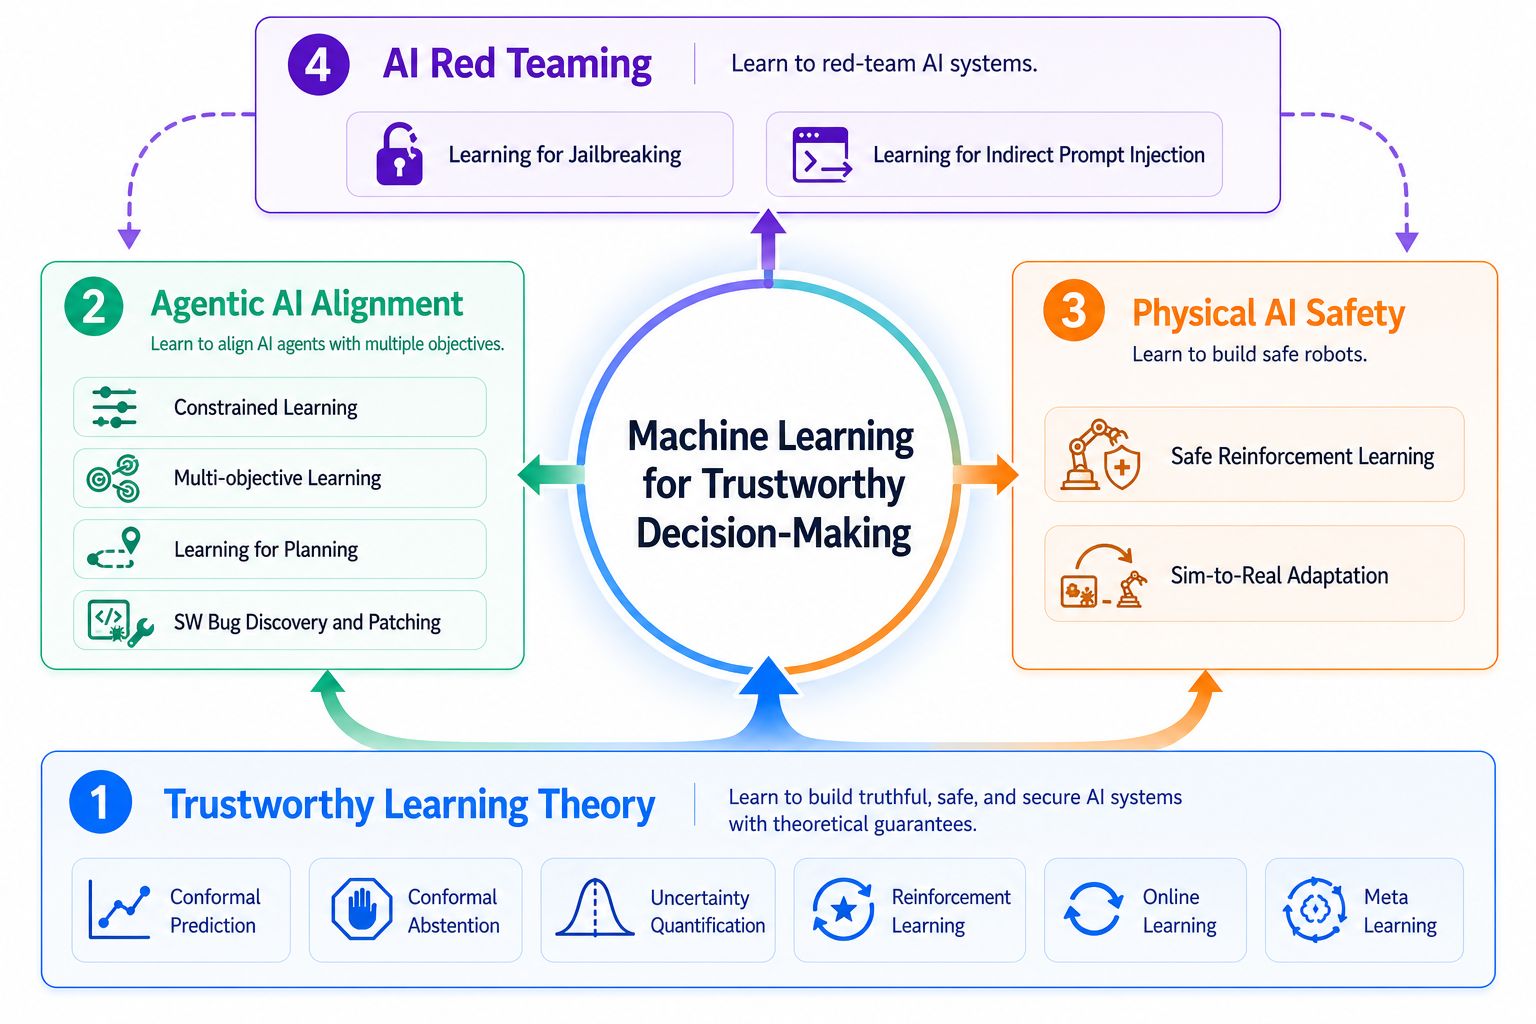
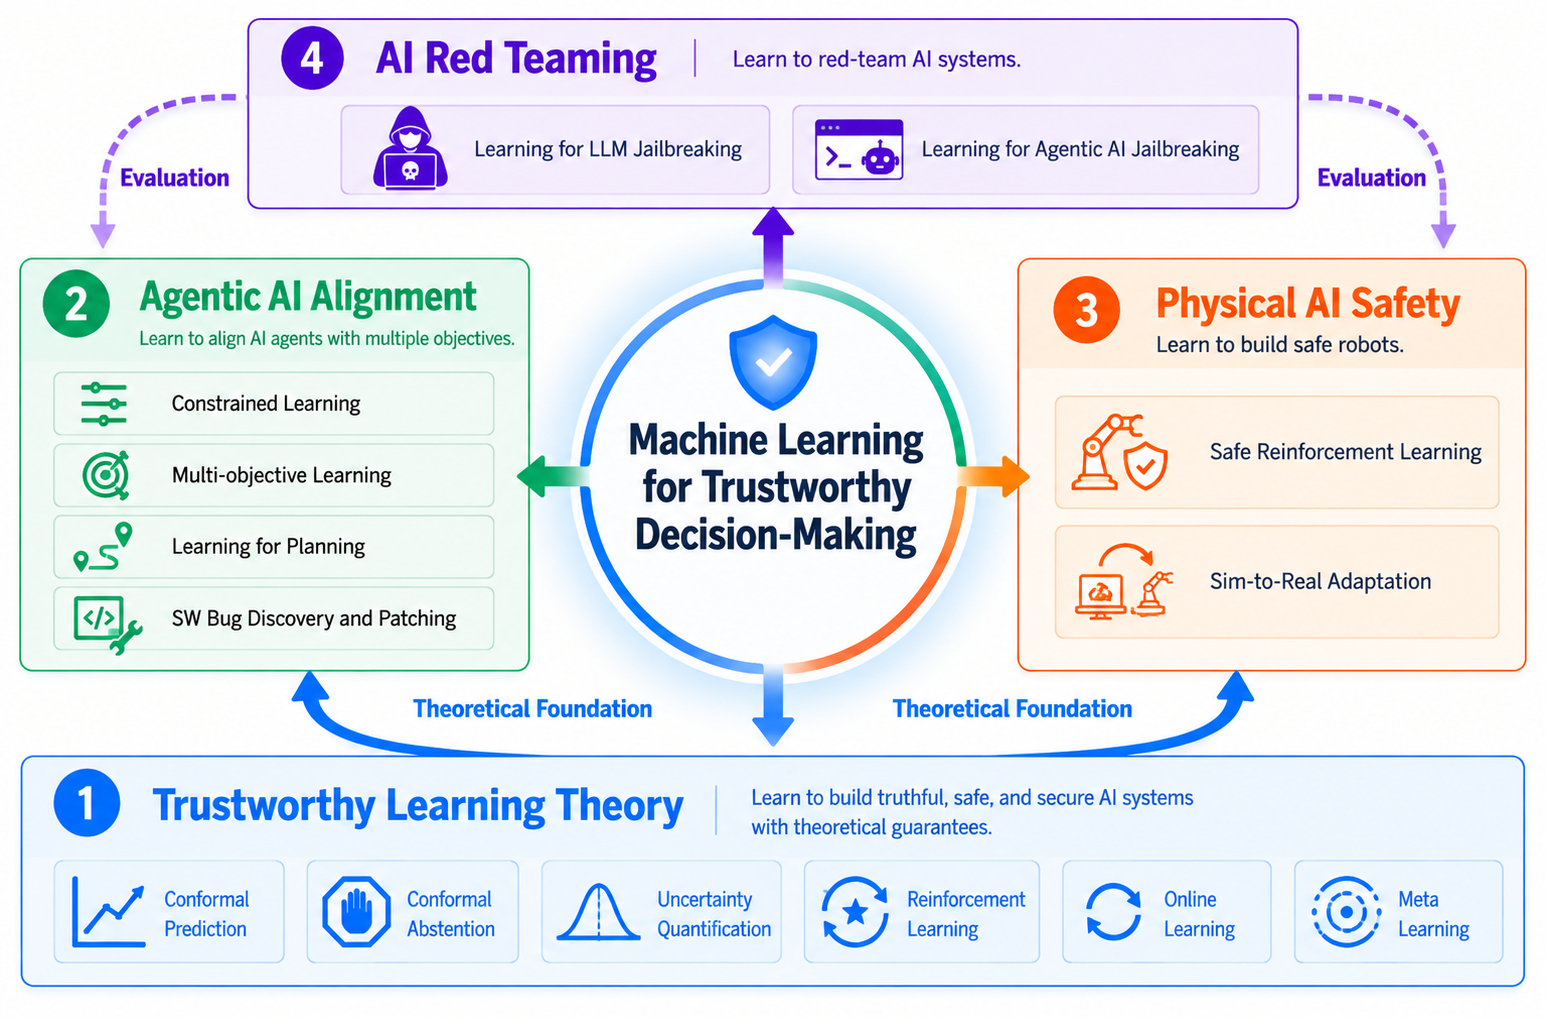
x

Changed region(s): [[0.0, 0.0, 1.0, 0.9754]]

diff --git a/content/research/ai-red-teaming/index.md b/content/research/ai-red-teaming/index.md
@@ -14,8 +14,8 @@ Agentic AI systems are powerful but remain vulnerable to adversarial manipulatio
 > **How do we train red agents that continuously <mark>debug</mark> target AI systems to <mark>harden</mark> them?**
 
 ### Problems
-* Learning for Jailbreaking
-* Learning for Indirect Prompt Injection
+* Learning for LLM Jailbreaking 
+* Learning for Agentic AI Jailbreaking
 
 
 {{< research-papers area="ai-red-teaming" >}}
